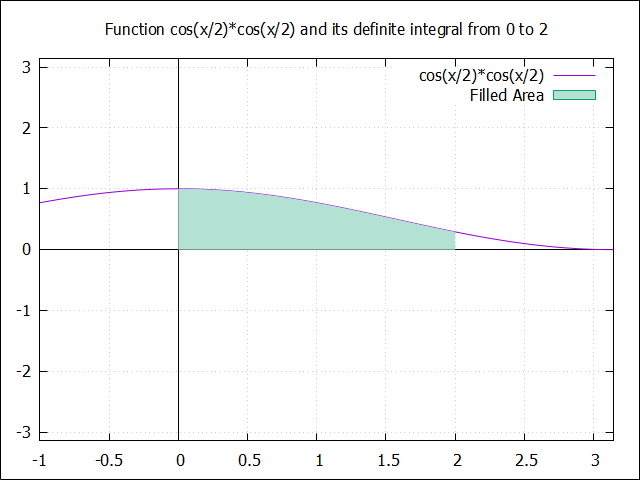
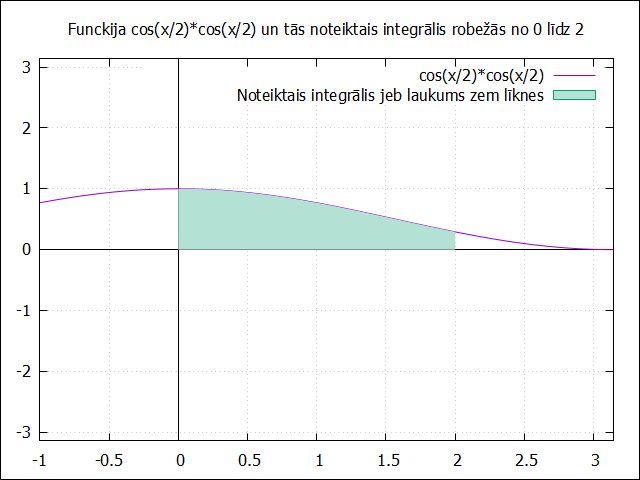
11_12_23

Changed region(s): [[0.0938, 0.0312, 0.9062, 0.0938], [0.3438, 0.1875, 0.8438, 0.2188]]

diff --git a/darbi/4ld_integral/integral.c b/darbi/4ld_integral/integral.c
@@ -55,5 +55,5 @@ void main(){
         for(k=0;k<n;k++)
             integr_simp += (h/6)*(funkcija(a+k*h) + 4*funkcija(a+(k+0.5)*h) + funkcija(a+(k+1)*h));
     }
-    printf("Integraala veertiiba (Simpson's Rule): %f\n", integr_simp);
+    printf("Integraala veertiiba ar Simpsona metodi: %f\n", integr_simp);
 }

diff --git a/darbi/4ld_integral/README.md b/darbi/4ld_integral/README.md
@@ -2,20 +2,31 @@
 # 4. Laboratorijas darbs - Skaitliskā integrēšana
 ## Ievads
 
-Tāpat kā riņķa līnijas laukuma vērtību var pieņemt kā vienādu ar bezgalīga daudzuma stūru daudzstūri, kas veido riņķa formu, jebkuru laukumu var uzskatīt par vienādu ar bezgalīgu daudzumu laukumu summu. Tā ir noteiktās integrēšanas pamatideja.
+Tāpat kā riņķa līnijas laukuma vērtība ir praktiski vienāda ar bezgalīga daudzuma stūru daudzstūri, kas veido riņķa formu (skat. 1. attēlu), jebkuru laukumu var uzskatīt par vienādu ar bezgalīgu daudzumu laukumu summu. Tā ir noteiktās integrēšanas pamatideja.
 
+![Alt text](aproximation.png)
+
+Sākumā laukums ir ļoti neprecīzs, bet samazinot atsevišķo elementu laukumus un palielinot to skaitu vai arī izmantojot citas formas (kas vairāk līdzinās nepieciešamajai formai), var iegūt daudz tuvāku, ja ne praktiski identisku, rezultātu.
+ 
 Šajā laboratorijas darbā tiek apskatītas trīs laukuma sadalīšanas metodes:
 1) Taisnstūra metode
-Laukums tiek sadalīts taisnstūros, kuru augstums ir vidusspunkts nogrieznim, kas vilkts no viena nodalījuma funckijas vērtībai šajā punktā, līdz nākošajā nodalījuma funckijas vērtībai šajā punktā.
 2) Trapeču metode
 3) Simpsona metode
 
+**Taisnstūra metodē**, laukums tiek sadalīts taisnstūros, kuru augstums ir vidusspunkts nogrieznim, kas vilkts no nodalījuma sākumpunkta funckijas vērtības, līdz nākošā nodalījuma sākumpunkta funckijas vērtībai. **Trapeces metode** ir ļoti līdzīga, turpretī augstums vairs nav paralēls x asij, bet gan ir slīpne. Šī slīpne ir tas pats, iepriekšminētais nogrieznis. **Simpsona metode**, savukārt, dod vēl precīzākus rezultātus, jo tā izmanto polinomu aproksimāciju starp funkcijas punktiem.
+
+Kopējais laukums tiek aprēķināts, saskaitot visu sadaļu laukumus.
+
 ## Programma
-Programmas sākumā tika atdalīta oriģinālfunkcija un aprēķināta ar atsevišķu funkcju. Tas ticis darīts, lai katrā darbībā nevajadzētu rakstīt visu funckiju, bet pietiktu ar viena mainīgā aizsūtīšanu uz "funckija" funckiju, kur vērtība tiks aprēķināta un atgriezta. Tad tiek deklarēti mainīgie un norisinās dialogs ar lietotāju, lai iegūtu noteiktā integrāļa intervāla sākuma (*a*) un beigu (*b*) intervāla vērtības, kā arī precizitāti (*precizitate*). Funckijas pamatideja ir sekojoša - laukums tiek sadalīts n vienādās horizontālās sadaļās. Ar vienu no ievadā minētajām metodēm, tiek iegūts katras atsevišķās sadaļas laukums un saskaitīta pie kopējās summas (tiek iegūta noteiktā integrāļa vērtība). Precizitāte tiek noteikta, salīdzinot 
+Programmas sākumā tika atdalīta oriģinālfunkcija un aprēķināta ar atsevišķu funkcju. Tas ticis darīts, lai katrā darbībā nevajadzētu rakstīt visu funckiju, bet pietiktu ar viena mainīgā aizsūtīšanu uz "funckija" funckiju, kur vērtība tiks aprēķināta un atgriezta. Tad tiek deklarēti mainīgie un norisinās dialogs ar lietotāju, lai iegūtu noteiktā integrāļa intervāla sākuma (*a*) un beigu (*b*) intervāla vērtības, kā arī precizitāti (*precizitate*). Funckijas pamatideja ir sekojoša - laukums tiek sadalīts vienādās horizontālās sadaļās ar garumu h. Ar vienu no ievadā minētajām metodēm, tiek iegūts katras atsevišķās sadaļas laukums un tiek pieskaitīts pie kopējās summas (tiek iegūta noteiktā integrāļa vērtība). Šī darbība strādā *while* ciklā, kurā integrāļa aproksimācija tiek salīdzināta ar lietotāja ievadīto precizitāti, un ja absolūtā vērtība ir lielāka par precizitāti, tad divas reizes tiek palielināts mainīgais *n*, kas samazina katra soļa (*h*) garumu, tādā veidā padarot aproksimāciju vēl precīzāku. Šis kods turpinā atkārtoties līdz precizitāte tiek sasniegta, tiek izdots rezultāts un programma dodas pie nākošās metodes vai arī beidz darbību.
 
 Koda izvade pie ieejas vērtībām a = 0, b = 2, precizitate = 0.00001:
 
-![Alt text](<koda_izvade (2).png>)
+![Alt text](<koda_izvade (3).png>)
+
+Doto situāciju var vieglāk vizualizēt ar Gnuplot funckiju, kas iekrāso laukumu starp oriģinālfunckijas cos(x/2)*cos(x/2) līkni un X asi robežās no 0 līdz 2: 
+
+![Alt text](integral.png)
 
 ## Datu analīze
 
@@ -25,4 +36,13 @@ Wolframalpha pārbaude:
 
 ## Secinājumi
 
+Šis laboratorijas darbs parāda integrēšanas essenci, kā arī dod vieglāku izpratni par to, kā dators spēj to uztvert. Tiek attīstītas iemaņas optimizācijā un precizitātes novērtēšanā un uzlabošanā, kā arī uzlabotas spējas ciklu pielietošanā.
+
 ## Atsauces un saites uz kodiem
+1. https://www.researchgate.net/figure/The-approximation-of-a-circle-a-the-original-domain-of-the-circle-and-its-approximated_fig6_223711108
+
+
+
+1. wd
+1. dw
+1. https://www.wolframalpha.com/input?i=integrate+cos%28x%2F2%29*cos%28x%2F2%29+from+0+to+2
